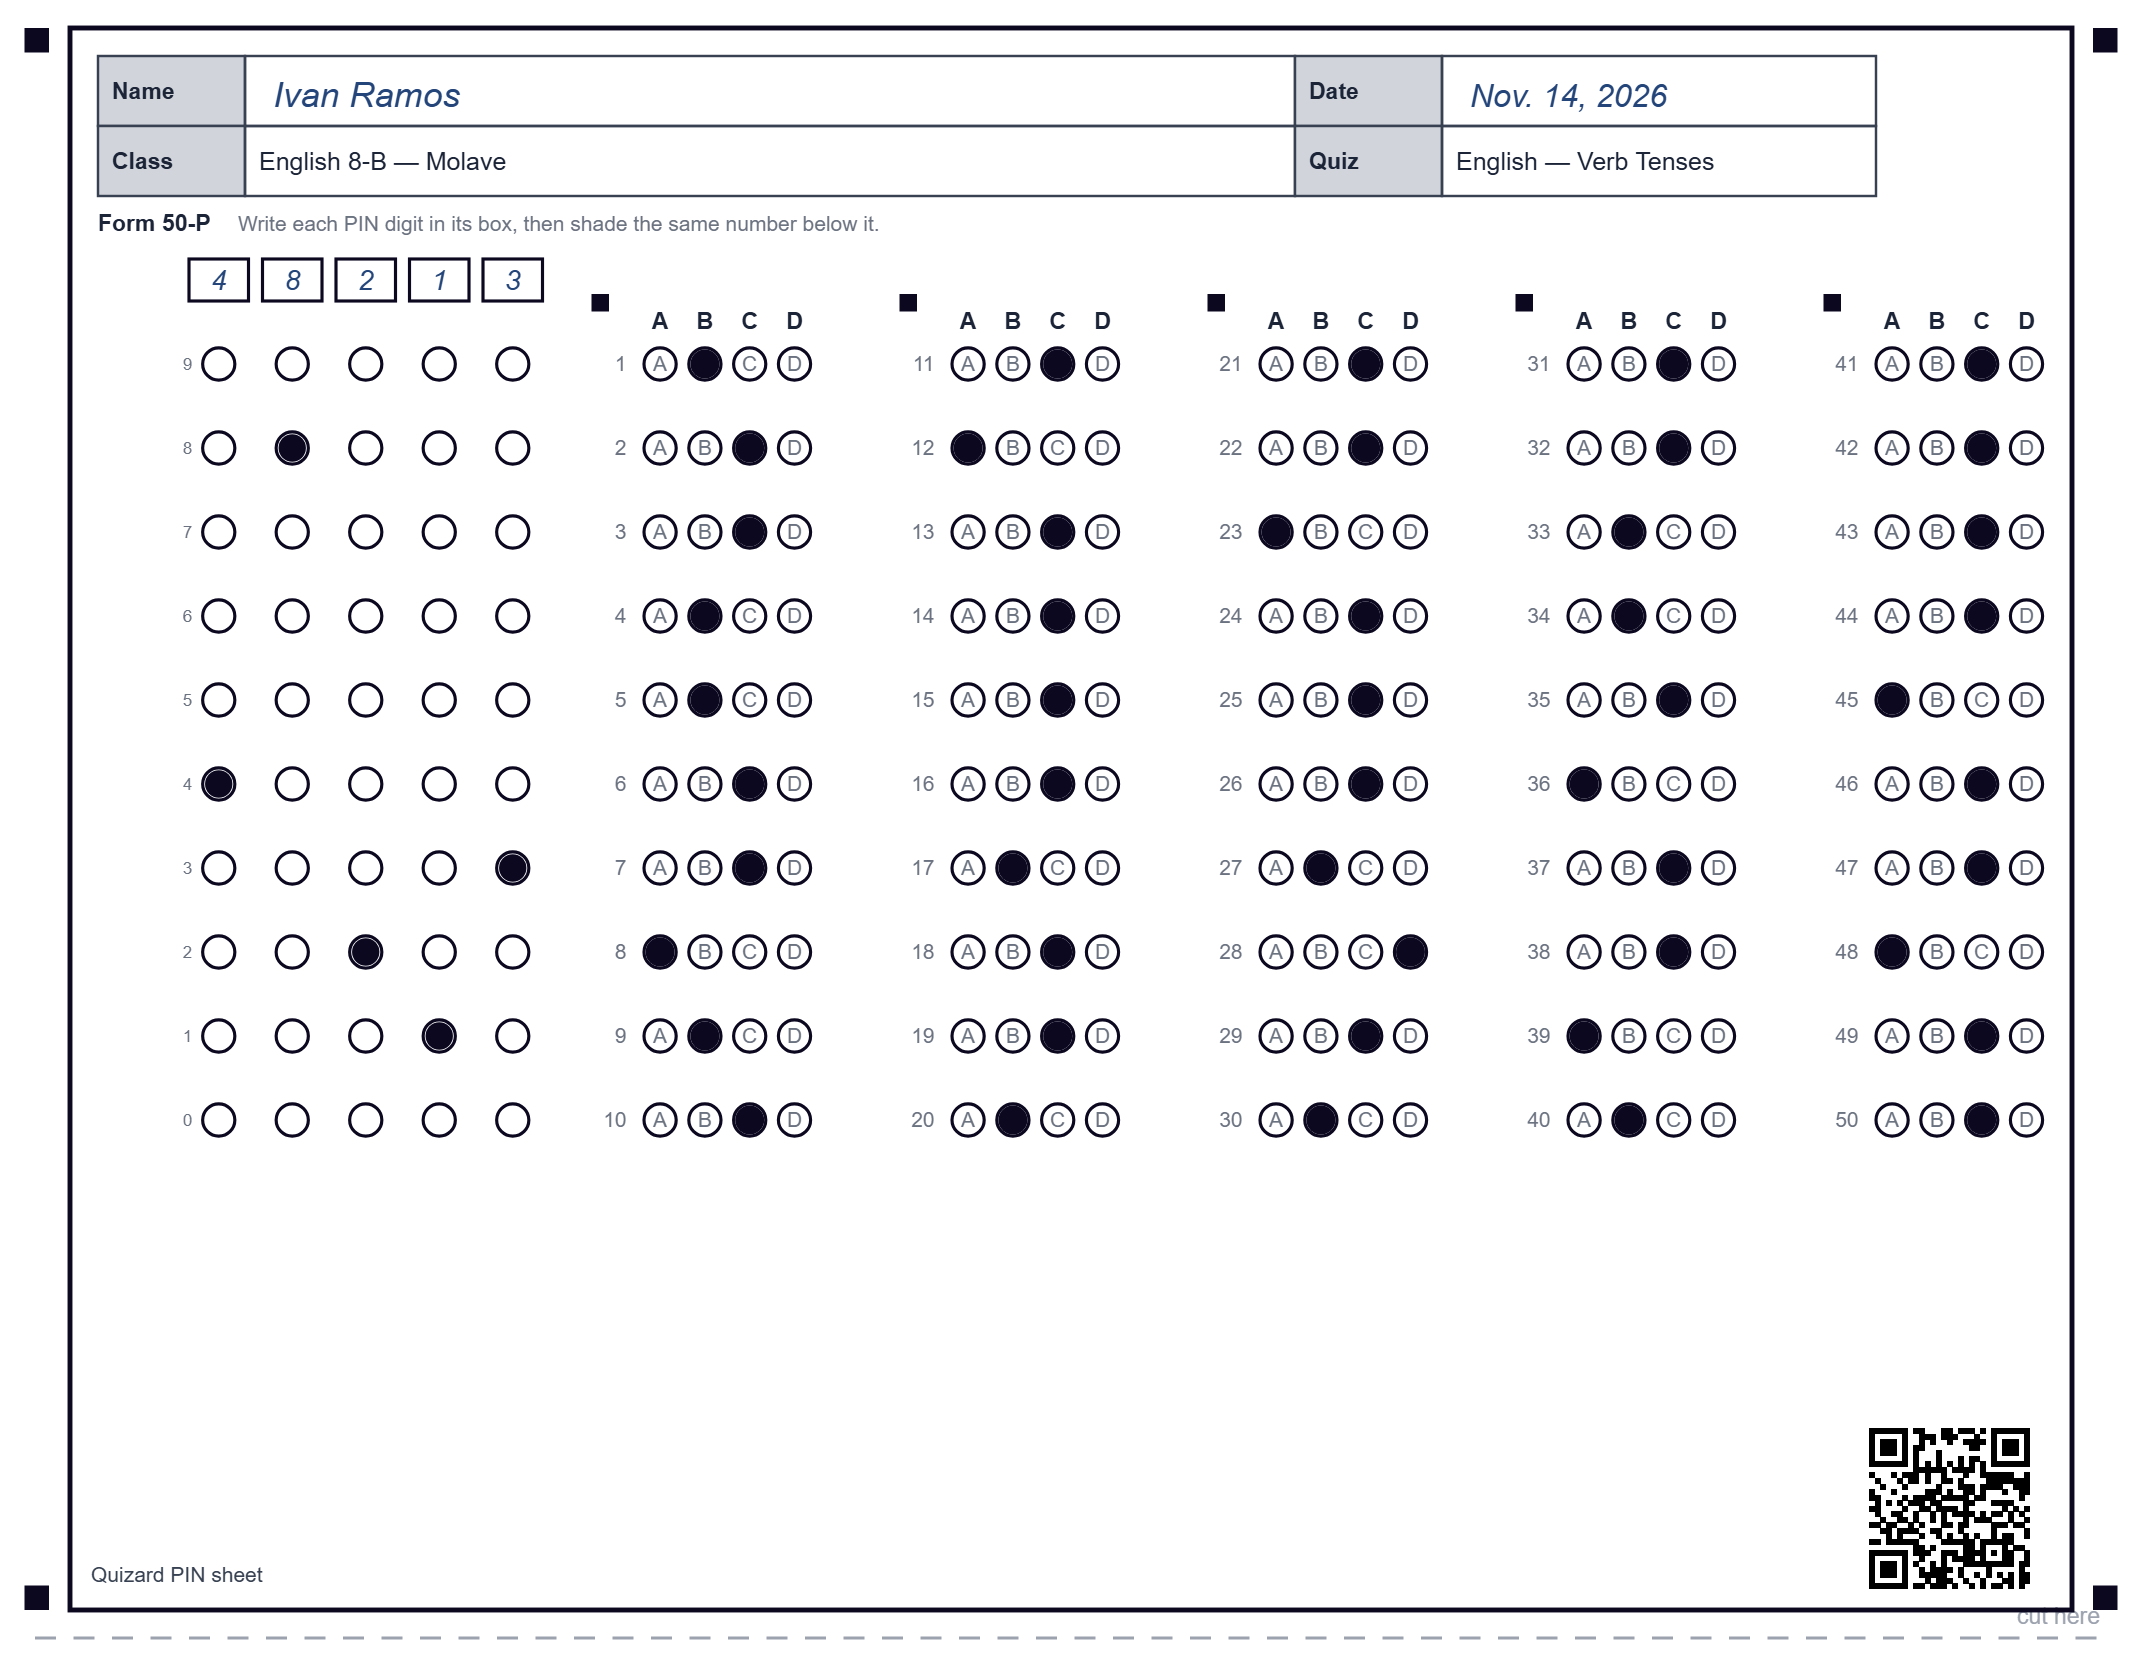
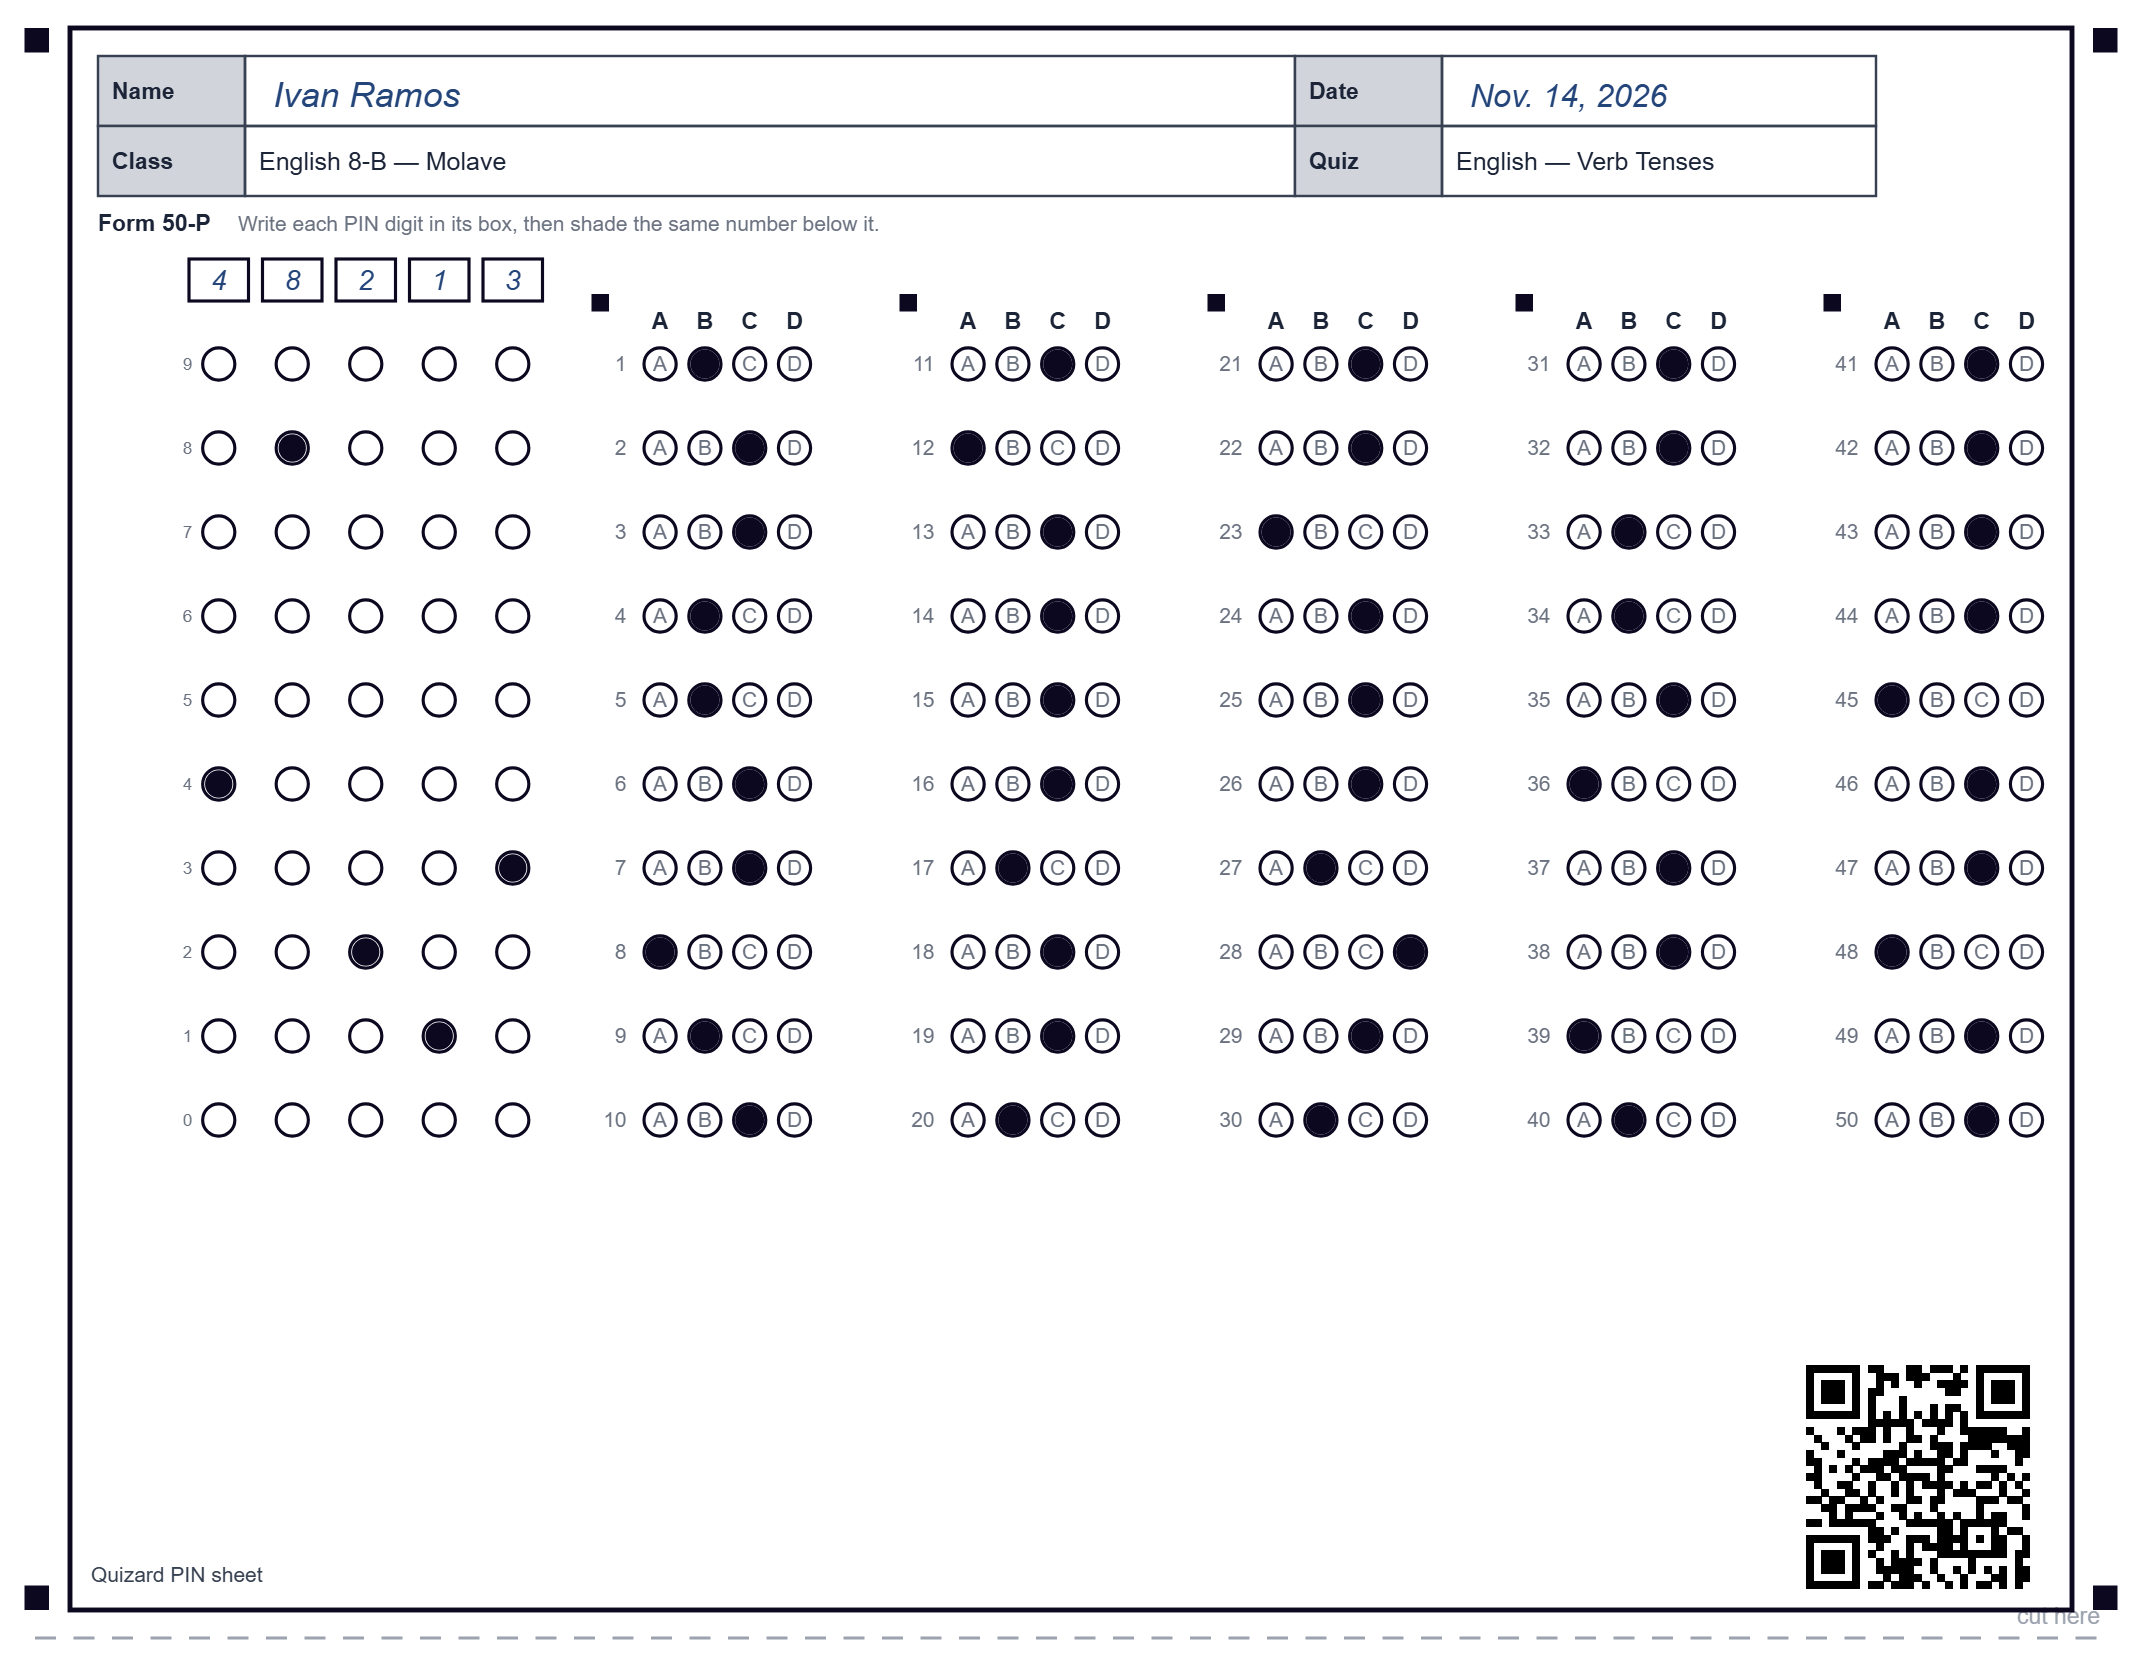
2.4.2: scanner at distance — 64pt PIN-sheet QR, search-mode live decode, 0.5% marker floor

Changed region(s): [[0.8319, 0.7993, 0.9552, 0.9837]]

diff --git a/tests/helpers/pin-render.js b/tests/helpers/pin-render.js
@@ -11,13 +11,13 @@ export const SCALE = 3
 export const OUT_W = PIN_SHEET.W * SCALE + 120
 export const OUT_H = (PIN_SHEET.H / 2) * SCALE + 120
 
-export function renderPinHalf({ half = 0, answers = [], pin = '', extra = [], qrPayload = '', rotateDeg = 0, noise = 0 } = {}) {
+export function renderPinHalf({ half = 0, answers = [], pin = '', extra = [], qrPayload = '', rotateDeg = 0, noise = 0, scale = SCALE, pad = 60 } = {}) {
   // a real photo shows desk around the paper — pad so rotated corners don't clip
-  const pad = 60
-  const W = PIN_SHEET.W * SCALE + pad * 2
-  const H = (PIN_SHEET.H / 2) * SCALE + pad * 2
+  const S = scale
+  const W = PIN_SHEET.W * S + pad * 2
+  const H = (PIN_SHEET.H / 2) * S + pad * 2
   const img = new Uint8ClampedArray(W * H * 4).fill(255)
-  const offY = (half === 1 ? -(PIN_SHEET.H / 2) * SCALE : 0) + pad
+  const offY = (half === 1 ? -(PIN_SHEET.H / 2) * S : 0) + pad
   const offX = pad
   const ink = (x, y, v) => {
     x = Math.round(x); y = Math.round(y)
@@ -26,29 +26,29 @@ export function renderPinHalf({ half = 0, answers = [], pin = '', extra = [], qr
     img[i] = img[i + 1] = img[i + 2] = v; img[i + 3] = 255
   }
   const disk = (cx, cy, r, v) => {
-    const R = r * SCALE
+    const R = r * S
     for (let dy = -R; dy <= R; dy++) for (let dx = -R; dx <= R; dx++) {
-      if (dx * dx + dy * dy <= R * R) ink(cx * SCALE + dx + offX, cy * SCALE + dy + offY, v)
+      if (dx * dx + dy * dy <= R * R) ink(cx * S + dx + offX, cy * S + dy + offY, v)
     }
   }
   const ring = (cx, cy, r, v) => {
-    const R = r * SCALE
+    const R = r * S
     const steps = Math.max(24, Math.round(R * 6))
     for (let i = 0; i <= steps; i++) {
       const a = (i / steps) * Math.PI * 2
-      ink(cx * SCALE + Math.cos(a) * R + offX, cy * SCALE + Math.sin(a) * R + offY, v)
+      ink(cx * S + Math.cos(a) * R + offX, cy * S + Math.sin(a) * R + offY, v)
     }
   }
   const hline = (x0, x1, y, v, thick = 1) => {
-    const R = Math.max(1, Math.round(thick * SCALE / 2))
-    for (let x = Math.round(x0 * SCALE); x <= Math.round(x1 * SCALE); x++) {
-      for (let dy = -R; dy <= R; dy++) ink(x + offX, y * SCALE + dy + offY, v)
+    const R = Math.max(1, Math.round(thick * S / 2))
+    for (let x = Math.round(x0 * S); x <= Math.round(x1 * S); x++) {
+      for (let dy = -R; dy <= R; dy++) ink(x + offX, y * S + dy + offY, v)
     }
   }
   const vline = (x, y0, y1, v, thick = 1) => {
-    const R = Math.max(1, Math.round(thick * SCALE / 2))
-    for (let y = Math.round(y0 * SCALE); y <= Math.round(y1 * SCALE); y++) {
-      for (let dx = -R; dx <= R; dx++) ink(x * SCALE + dx + offX, y + offY, v)
+    const R = Math.max(1, Math.round(thick * S / 2))
+    for (let y = Math.round(y0 * S); y <= Math.round(y1 * S); y++) {
+      for (let dx = -R; dx <= R; dx++) ink(x * S + dx + offX, y + offY, v)
     }
   }
   const boxOutline = (x, y, w, h, v) => {
@@ -60,8 +60,8 @@ export function renderPinHalf({ half = 0, answers = [], pin = '', extra = [], qr
   boxOutline(f.x, f.y, f.w, f.h, 0)
   for (const m of pinMarkerRects(half)) {
     // solid square, filled pixel-for-pixel — the blob filter needs fill ≥ 0.85
-    for (let yy = Math.round(m.y * SCALE); yy < Math.round((m.y + m.h) * SCALE); yy++) {
-      for (let xx = Math.round(m.x * SCALE); xx < Math.round((m.x + m.w) * SCALE); xx++) ink(xx + offX, yy + offY, 0)
+    for (let yy = Math.round(m.y * S); yy < Math.round((m.y + m.h) * S); yy++) {
+      for (let xx = Math.round(m.x * S); xx < Math.round((m.x + m.h) * S); xx++) ink(xx + offX, yy + offY, 0)
     }
   }
 
@@ -76,6 +76,13 @@ export function renderPinHalf({ half = 0, answers = [], pin = '', extra = [], qr
       const c = pinItemCenter(i, answers[i], half)
       disk(c.x, c.y, PIN_SHEET.circleR * 0.9, 0)
     }
+    // answers[i] may be an array of two letters -> double-shaded (MULTI)
+    if (Array.isArray(answers[i])) {
+      for (const b of answers[i]) {
+        const c = pinItemCenter(i, b, half)
+        disk(c.x, c.y, PIN_SHEET.circleR * 0.9, 0)
+      }
+    }
   }
 
   // the QR: a real scannable QZ3 code, drawn exactly like the printer draws it
@@ -86,11 +93,11 @@ export function renderPinHalf({ half = 0, answers = [], pin = '', extra = [], qr
     const cells = qr.getModuleCount()
     const rect = pinQrRect(half)
     const cell = rect.size / cells
-    const w = Math.ceil(cell * SCALE) + 1, h = Math.ceil(cell * SCALE) + 1
+    const w = Math.ceil(cell * S) + 1, h = Math.ceil(cell * S) + 1
     for (let r = 0; r < cells; r++) for (let c = 0; c < cells; c++) {
       if (qr.isDark(r, c)) {
-        const x0 = Math.round((rect.x + c * cell) * SCALE) + offX
-        const y0 = Math.round((rect.y + r * cell) * SCALE) + offY
+        const x0 = Math.round((rect.x + c * cell) * S) + offX
+        const y0 = Math.round((rect.y + r * cell) * S) + offY
         for (let dy = 0; dy < h; dy++) for (let dx = 0; dx < w; dx++) ink(x0 + dx, y0 + dy, 0)
       }
     }

diff --git a/tests/pin-sheet.test.js b/tests/pin-sheet.test.js
@@ -172,4 +172,45 @@ describe('readPinSheet on synthetic photos', () => {
     expect(res.pin).toBe(null)
     expect(res.pinFlags[0]).toBe('multi')
   })
+
+  // A half-sheet framed at ~48% of a 720p camera frame (a laptop screen across
+  // the desk): the 7pt markers sit under the old 0.8%-of-frame side floor and
+  // the pre-2.4.2 46pt QR fell under jsQR's module floor. Both must read now.
+  it('scans a far-framed sheet — markers, QR and PIN all read at distance', () => {
+    const answers = Array.from({ length: 50 }, (_, i) => key[i])
+    // render at 2x then box-average down to 1x — a cheap stand-in for the
+    // optical smoothing a real camera frame has (hard-edged raw pixels at
+    // 2.5px/module defeat jsQR in a way a camera never sees)
+    const S = 2, PAD = 8
+    const img = renderPinHalf({ answers, pin: '48213', qrPayload: pinSheetQrPayload('quiz-x'), scale: S, pad: PAD })
+    const w = Math.round(612 * S + PAD * 2), h = Math.round(468 * S + PAD * 2)
+    const dw = Math.round(w / 2), dh = Math.round(h / 2)
+    const small = new Uint8ClampedArray(dw * dh * 4)
+    for (let y = 0; y < dh; y++) for (let x = 0; x < dw; x++) {
+      let r = 0, g = 0, b = 0
+      for (const [dy, dx] of [[0, 0], [0, 1], [1, 0], [1, 1]]) {
+        const si = ((y * 2 + dy) * w + (x * 2 + dx)) * 4
+        r += img[si]; g += img[si + 1]; b += img[si + 2]
+      }
+      const di = (y * dw + x) * 4
+      small[di] = r / 4; small[di + 1] = g / 4; small[di + 2] = b / 4; small[di + 3] = 255
+    }
+    const VW = 1280, VH = 720
+    const frame = new Uint8ClampedArray(VW * VH * 4)
+    for (let i = 0; i < VW * VH; i++) { frame[i * 4] = frame[i * 4 + 1] = frame[i * 4 + 2] = 185; frame[i * 4 + 3] = 255 }
+    const x0 = Math.round((VW - dw) / 2), y0 = Math.round((VH - dh) / 2)
+    for (let y = 0; y < dh; y++) for (let x = 0; x < dw; x++) {
+      const si = (y * dw + x) * 4, di = ((y0 + y) * VW + (x0 + x)) * 4
+      frame[di] = small[si]; frame[di + 1] = small[si + 1]; frame[di + 2] = small[si + 2]
+    }
+    // the marker floor is the gate being tested: sheet ~48% -> marker ~7px,
+    // under the old 10.2px floor, over the new 6.4px one
+    expect(PIN_SHEET.marker).toBeLessThan(VW * 0.008)
+    expect(PIN_SHEET.marker).toBeGreaterThanOrEqual(VW * 0.005)
+    const res = readPinSheet({ data: frame, width: VW, height: VH })
+    expect(res.ok).toBe(true)
+    expect(res.qr).toBe('QZ3:quiz-x')
+    expect(res.pin).toBe('48213')
+    for (let i = 0; i < 50; i++) expect(res.answers[i]).toBe(key[i])
+  })
 })

diff --git a/src/app/pages/checking/checking.ts b/src/app/pages/checking/checking.ts
@@ -328,19 +328,26 @@ export class CheckingPage {
     this.liveBusy = true;
     try {
       const now = performance.now();
+      // A small QR (the PIN half-sheet's code is ~10% of the sheet width)
+      // drops under jsQR's ~2px-per-module floor once a far-framed sheet is
+      // squeezed into the cheap 900px preview decode. When nothing has been
+      // seen for a moment, step up to a full-resolution search decode so
+      // distance can't hide a sheet — the extra cost only lands while the
+      // camera is pointed at nothing.
+      const search = this.liveAbsent >= LIVE_SCAN.searchAfterTicks;
       let text: string | null = null;
       if (this.detector) {
         text = await this.detectWithDetector(video);
         if (text) {
           this.detectorMisses = 0;
-        } else if (++this.detectorMisses % 3 === 0) {
+        } else if (++this.detectorMisses % 3 === 0 || search) {
           // Some WebViews expose BarcodeDetector but return nothing (no
           // barcode module installed). Probe with jsQR every third empty tick
           // so the live scanner cannot end up blind.
-          text = this.decodeLiveFrame(video);
+          text = this.decodeLiveFrame(video, search ? LIVE_SCAN.searchWidth : LIVE_SCAN.previewWidth);
         }
       } else {
-        text = this.decodeLiveFrame(video);
+        text = this.decodeLiveFrame(video, search ? LIVE_SCAN.searchWidth : LIVE_SCAN.previewWidth);
       }
       const step = liveScanStep({
         text,
@@ -382,8 +389,11 @@ export class CheckingPage {
     }
   }
 
-  private decodeLiveFrame(video: HTMLVideoElement): string | null {
-    const width = Math.min(900, video.videoWidth);
+  private decodeLiveFrame(video: HTMLVideoElement, maxWidth = LIVE_SCAN.previewWidth): string | null {
+    // preview decodes never upscale (native pixels, downscaled to fit);
+    // search decodes always run at the full search width — upscaling a small
+    // stream gives jsQR the module resolution a far-framed QR loses at 720p
+    const width = Math.round(maxWidth > video.videoWidth ? maxWidth : Math.min(maxWidth, video.videoWidth));
     const height = Math.round(video.videoHeight * (width / video.videoWidth));
     let canvas = this.liveCanvas;
     if (!canvas) canvas = this.liveCanvas = document.createElement('canvas');

diff --git a/src/app/core/engine/omr.js b/src/app/core/engine/omr.js
@@ -91,7 +91,11 @@ export function findMarkerQuads(binary, width, height, expectedCenters) {
   const all = blobs(binary, width, height)
   const passes = (b, fillMin) => {
     const side = (b.bw + b.bh) / 2
-    return side >= maxSide * 0.008 && side <= maxSide * 0.08
+    // 0.5% floor: a half-sheet's 7pt markers are 1.14% of the sheet width, so
+    // a sheet framed at ~45% of the frame lands right at 0.5% — the old 0.8%
+    // floor rejected far-framed PIN sheets before the quad matcher could even
+    // look (the ratio + fill + expected-geometry checks do the real filtering).
+    return side >= maxSide * 0.005 && side <= maxSide * 0.08
       && b.bw / b.bh > 0.45 && b.bw / b.bh < 2.2 && b.fill >= fillMin
   }
   let cand = all.filter(b => passes(b, 0.85))

diff --git a/src/app/core/engine/sheet-spec.js b/src/app/core/engine/sheet-spec.js
@@ -287,7 +287,12 @@ export const PIN_SHEET = {
   letterR: 1.2, letterCap: 4.0,
   scanRadiusFrac: 0.85,
   marker: 7, markerGap: 6,
-  qrSize: 46, qrPadX: 12, qrPadY: 6,
+  // QR sized for distance: the half-sheet's grid ends ~70pt above the frame
+  // bottom, so a 64pt code (10.5% of the sheet width — close to the Letter
+  // sheet's 12.4%) fits clear of every bubble and still reads from across a
+  // room. The old 46pt code dropped under jsQR's ~2px-per-module floor once a
+  // far-framed sheet hit the live preview decode.
+  qrSize: 64, qrPadX: 12, qrPadY: 6,
   cutY: 468,
 }
 

diff --git a/tests/live-scan.test.js b/tests/live-scan.test.js
@@ -81,4 +81,12 @@ describe('liveScanStep', () => {
     }
     expect(absent).toBeGreaterThanOrEqual(LIVE_SCAN.rearmTicks)
   })
+
+  it('engages search decoding well before the re-arm point', () => {
+    // search mode exists to find small QRs while the camera sees nothing;
+    // it must switch on before the state machine forgets the last sheet
+    expect(LIVE_SCAN.searchAfterTicks).toBeLessThan(LIVE_SCAN.rearmTicks)
+    expect(LIVE_SCAN.searchWidth).toBeGreaterThan(LIVE_SCAN.previewWidth)
+    expect(LIVE_SCAN.previewWidth).toBeGreaterThanOrEqual(900)
+  })
 })

diff --git a/src/app/core/engine/live-scan.js b/src/app/core/engine/live-scan.js
@@ -12,6 +12,9 @@ export const LIVE_SCAN = {
   confirmHits: 2,       // same QR twice in a row before capturing
   cooldownMs: 1500,     // pause after a capture while the frame is processed
   rearmTicks: 8,        // ~2s with no sheet re-arms the last scanned QR
+  previewWidth: 900,    // cheap per-tick decode width
+  searchAfterTicks: 4,  // ~1s seeing nothing -> start full-res search decodes
+  searchWidth: 1600,    // search decode width (upscales small streams)
 }
 
 /**

diff --git a/src/app/pages/settings/settings.ts b/src/app/pages/settings/settings.ts
@@ -66,7 +66,7 @@ export class SettingsPage implements OnInit {
   usageLine = signal('');
 
   get showNudge() { return (!this.lastBackup || Date.now() - this.lastBackup > BACKUP_NUDGE_MS) && this.docCount > 0; }
-  get version() { return '2.4.1'; }
+  get version() { return '2.4.2'; }
   get theme() { return this.ui.theme; }
 
   // ── Cloud sync (sync-code locker) ──
